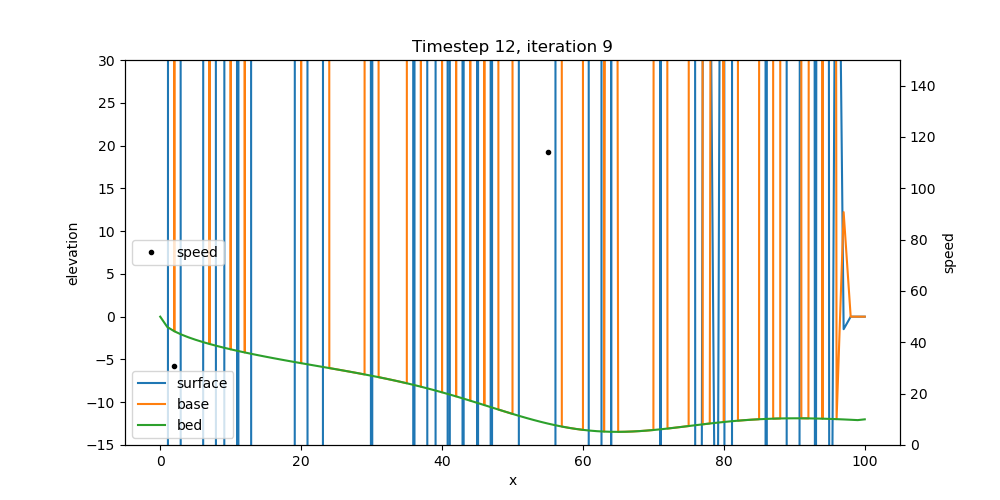
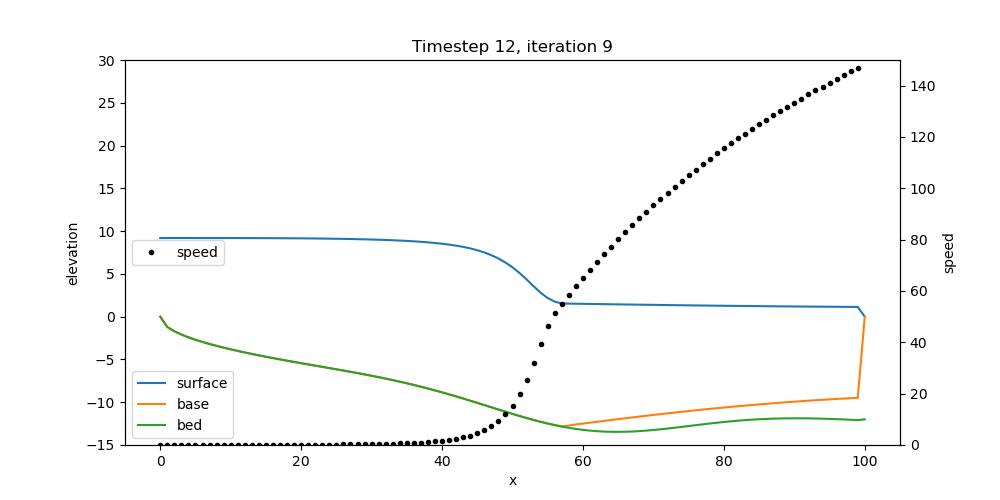
fiddled around, achieved nothing

Changed region(s): [[0.155, 0.12, 0.868, 0.9]]

diff --git a/scratch_test/expt/sparse_implcit_coupled_test.py b/scratch_test/expt/sparse_implcit_coupled_test.py
@@ -3,7 +3,10 @@ import sys
 
 #local apps
 sys.path.insert(1, '../')
-from sparsity_utils import basis_vectors_etc, make_sparse_jacrev_fct, dodgy_coo_to_csr
+from sparsity_utils import basis_vectors_etc,\
+                           make_sparse_jacrev_fct,\
+                           dodgy_coo_to_csr,\
+                           make_sparse_jacrev_fct_multiprime
 
 #3rd party
 from petsc4py import PETSc
@@ -379,7 +382,52 @@ def make_solver(u_trial, h_trial, dt, num_iterations, num_timesteps, intermediat
 
     return newton_solve
 
+#TODO: Refactor this jesus christ. it's also in sparse_jacobian_petsc_test.py... and it's rubbish anyway!
+def solve_petsc_sparse(values, coordinates, jac_shape, b, ksp_type='gmres', preconditioner='hypre', precondition_only=False):
+    comm = PETSc.COMM_WORLD
+    size = comm.Get_size()
 
+    iptr, j, values = dodgy_coo_to_csr(values, coordinates, jac_shape, return_decomposition=True)
+
+    
+
+    #rows_local = int(jac_shape[0] / size)
+
+    #A = PETSc.Mat().createAIJ(size=jac_shape, csr=(iptr, j, values), bsize=[rows_local, jac_shape], comm=comm)
+    A = PETSc.Mat().createAIJ(size=jac_shape, csr=(iptr, j, values), comm=comm)
+    
+    b = PETSc.Vec().createWithArray(b, comm=comm)
+    
+    x = b.duplicate()
+    
+    
+    # Create a linear solver
+    ksp = PETSc.KSP().create()
+    ksp.setType(ksp_type)
+
+    ksp.setOperators(A)
+    #ksp.setFromOptions()
+    
+    
+    if preconditioner == 'hypre':
+        pc = ksp.getPC()
+        pc.setType('hypre')
+        pc.setHYPREType('boomeramg')
+    else:
+        pc = ksp.getPC()
+        pc.setType(preconditioner)
+
+    if precondition_only:
+        pc.apply(b, x)
+    else:
+        ksp.solve(b, x)
+    
+    # Print the solution
+    #x.view()
+
+    x_jnp = jnp.array(x.getArray())
+
+    return x_jnp
 
 
 def make_solver_sparse_jvp(u_trial, h_trial, dt, num_iterations, num_timesteps, intermediates=False):
@@ -403,51 +451,47 @@ def make_solver_sparse_jvp(u_trial, h_trial, dt, num_iterations, num_timesteps, 
         #we might have to aggregate teh stencils by operator (if ykwim..?)
     
         bvs_gu, i_cs_gu, j_cs_gu = basis_vectors_etc(n, 1)
-        bvs_gh, i_cs_gh, j_cs_gh = basis_vectors_etc(n, 5)
-        sparse_jacrev_gu,_ = make_sparse_jacrev_fct(bvs_gu, i_cs_gu, j_cs_gu)
-        sparse_jacrev_gh,_ = make_sparse_jacrev_fct(bvs_gh, i_cs_gh, j_cs_gh)
+        bvs_gh, i_cs_gh, j_cs_gh = basis_vectors_etc(n+1, 5)
+        sparse_jacrev_gu,_ = make_sparse_jacrev_fct_multiprime(n, bvs_gu, i_cs_gu, j_cs_gu)
+        sparse_jacrev_gh,_ = make_sparse_jacrev_fct_multiprime(n+1, bvs_gh, i_cs_gh, j_cs_gh)
 
+        
+        is_dvt_du  = i_cs_gu.copy()
+        js_dvt_du  = j_cs_gu.copy()
+        is_dvt_dh  = i_cs_gu.copy() + n
+        js_dvt_dh  = j_cs_gu.copy()
+        is_dadv_du = i_cs_gh.copy() + n
+        js_dadv_du = j_cs_gh.copy()
+        is_dadv_dh = i_cs_gh.copy() + n
+        js_dadv_dh = j_cs_gh.copy() + n
 
         for j in range(num_timesteps):
             print(j)
             for i in range(num_iterations):
                 
                 #TODO: work out wtf is going on here and everywhere...
-                vto_jac_rows = sparse_jacrev_gu(vto, (u, h))
-                advo_jac_rows = sparse_jacrev_gh(advo, (u, h, h_old))
 
-                print(vto_jac_rows)
-                print(advo_jac_rows)
+                dvt_du_values, dvt_dh_values = sparse_jacrev_gu(vto, (u, h))
+                dadv_du_values, dadv_dh_values, dadv_dhold_rows = sparse_jacrev_gh(advo, (u, h, h_old))
+
+                #print(dvt_du_rows.shape)
+                #print(dvt_dh_rows.shape)
+                #print(dadv_du_rows.shape)
+                #print(dadv_dh_rows.shape)
+                #print(dadv_dhold_rows.shape)
+
+                all_values = jnp.concatenate((dvt_du_values, dvt_dh_values, dadv_du_values, dadv_dh_values))
+                all_is = jnp.concatenate((is_dvt_du, is_dvt_dh, is_dadv_du, is_dadv_dh))
+                all_js = jnp.concatenate((js_dvt_du, js_dvt_dh, js_dadv_du, js_dadv_dh))
+                all_coords = jnp.column_stack((all_is, all_js))
+
+                print(all_values.shape)
+                print(all_coords.shape)
                 raise
-
-
-                full_jacobian = jnp.block(
-                                          [[vto_jac[0], vto_jac[1]],
-                                          [advo_jac[0], advo_jac[1]]]
-                                )
-
-
-                #print(np.array(vto_jac[0]))
-                #print("-------------------")
-                #print("-------------------")
-                #print("-------------------")
-                #print(np.array(advo_jac[0]))
-                #print("-------------------")
-                #print("-------------------")
-                #print("-------------------")
-                #print(np.array(full_jacobian))
-                #raise
-
-
-                # np.set_printoptions(linewidth=200)
-                # print(np.array_str(full_jacobian, precision=2, suppress_small=True))
-                # np.set_printoptions(linewidth=75)
-                # print(full_jacobian.shape)
-
 
                 rhs = jnp.concatenate((-vto(u, h), -advo(u, h, h_old)))
 
-                dvar = lalg.solve(full_jacobian, rhs)
+                dvar = solve_petsc_sparse(all_values, all_coords, (2*n + 1, 2*n + 1), rhs)
 
                 u = u.at[:].set(u+dvar[:n])
                 h = h.at[:].set(h+dvar[n:])
@@ -595,10 +639,10 @@ u_trial = jnp.exp(x)-1
 h_trial = h.copy()
 
 
-newton_solve = make_solver(u_trial, h_trial, 2e-4, 10, 20, intermediates=False)
+#newton_solve = make_solver(u_trial, h_trial, 2e-4, 10, 20, intermediates=False)
 ##newton_solve = make_solver(u_trial, h_trial, 2e-3, 10, 20, intermediates=False)
 
-#newton_solve = make_solver_sparse_jvp(u_trial, h_trial, 2e-4, 10, 20, intermediates=False)
+newton_solve = make_solver_sparse_jvp(u_trial, h_trial, 2e-4, 10, 20, intermediates=False)
 
 
 

diff --git a/scratch_test/sparsity_utils.py b/scratch_test/sparsity_utils.py
@@ -15,19 +15,66 @@ def dodgy_coo_to_csr(values, coordinates, shape, return_decomposition=False):
     else:
         return a
 
+
+def make_sparse_jacrev_fct_multiprime(n, basis_vectors, i_coord_sets, j_coord_sets):
+    # This can be made significantly more general, but this is just to
+    # see whether the basics work and reduce demands on memory
+
+
+    def sparse_jacrev(fun_, primals):
+        #Remember: vector-matrix product with a basis vector picks out a row.
+        #matrix-vector product with basis vector picks out a column.
+        #The indices of the things you're differentiating wrt form the columns
+        #and the indices of the function form the rows.
+        y, vjp_fun = jax.vjp(fun_, *primals)
+
+        #I think this is true at least...
+        m_range = range(len(primals))
+        rows_agg = [[] for i in m_range]
+        
+        #need to get rid of this loop!!
+        #maybe vmap or something?
+        for bv in basis_vectors:
+            row_tuple = vjp_fun(bv)
+            for i in m_range:
+                rows_agg[i].append(row_tuple[i])
+        
+        rows_agg = [jnp.concatenate(rows_agg[i]) for i in m_range]
+
+        return rows_agg
+
+    def densify_sparse_jac(jacrows_vec):
+        m = len(basis_vectors[0]) #number of columns in matrix
+        jac = jnp.zeros((n, m))
+
+        # for bv_is, bv_js, jacrow in zip(i_coord_sets, j_coord_sets, jacrows):
+            # jac = jac.at[bv_is, bv_js].set(jacrow)
+
+        jac = jac.at[j_coord_sets, i_coord_sets].set(jacrows_vec)
+
+        return jac
+
+    return sparse_jacrev, densify_sparse_jac
+
 def make_sparse_jacrev_fct(basis_vectors, i_coord_sets, j_coord_sets):
     # This can be made significantly more general, but this is just to
     # see whether the basics work and reduce demands on memory
 
 
     def sparse_jacrev(fun_, primals):
-        y, jvp_fun = jax.vjp(fun_, *primals)
+        #Remember: vector-matrix product with a basis vector picks out a row.
+        #matrix-vector product with basis vector picks out a column.
+        #The indices of the things you're differentiating wrt form the columns
+        #and the indices of the function form the rows.
+        y, vjp_fun = jax.vjp(fun_, *primals)
         rows = []
+
         #need to get rid of this loop!!
         #maybe vmap or something?
         for bv in basis_vectors:
-            row, _ = jvp_fun(bv)
+            row, _ = vjp_fun(bv)
             rows.append(row)
+
         rows = jnp.concatenate(rows)
 
         # print(rows)

diff --git a/scratch_test/expt/sparse_jacobian_petsc_test.py b/scratch_test/expt/sparse_jacobian_petsc_test.py
@@ -103,10 +103,10 @@ def solve_petsc_sparse(values, coordinates, jac_shape, b, ksp_type='gmres', prec
 
     
 
-    rows_local = int(jac_shape[0] / size)
+    #rows_local = int(jac_shape[0] / size)
 
-    A = PETSc.Mat().createAIJ(size=jac_shape, csr=(iptr, j, values), bsize=[rows_local, jac_shape], comm=comm)
-    #A = PETSc.Mat().createAIJ(size=jac_shape, csr=(iptr, j, values), comm=comm)
+    #A = PETSc.Mat().createAIJ(size=jac_shape, csr=(iptr, j, values), bsize=[rows_local, jac_shape], comm=comm)
+    A = PETSc.Mat().createAIJ(size=jac_shape, csr=(iptr, j, values), comm=comm)
     
     b = PETSc.Vec().createWithArray(b, comm=comm)
     
@@ -317,8 +317,6 @@ u_trial = jnp.exp(x)-1
 
 #newton_solve_with_intermediates = make_solver(u_trial, intermediates=True)
 newton_solve_with_intermediates = make_solver_sparse_jvp(u_trial, intermediates=True)
-
-n sparse_jacobian_petsc_test.py
 
 u_end, us = newton_solve_with_intermediates(mu)
 
